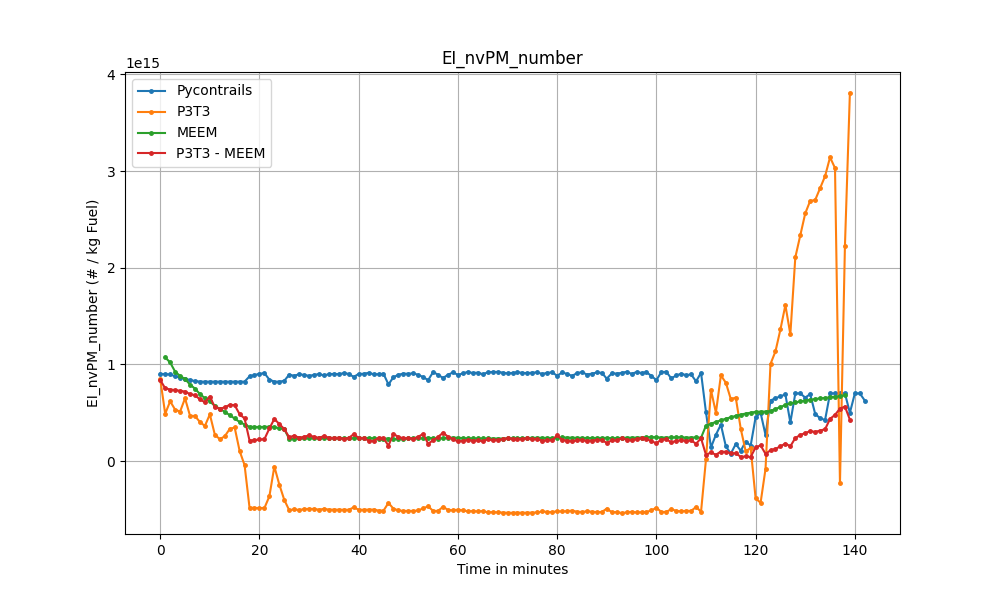
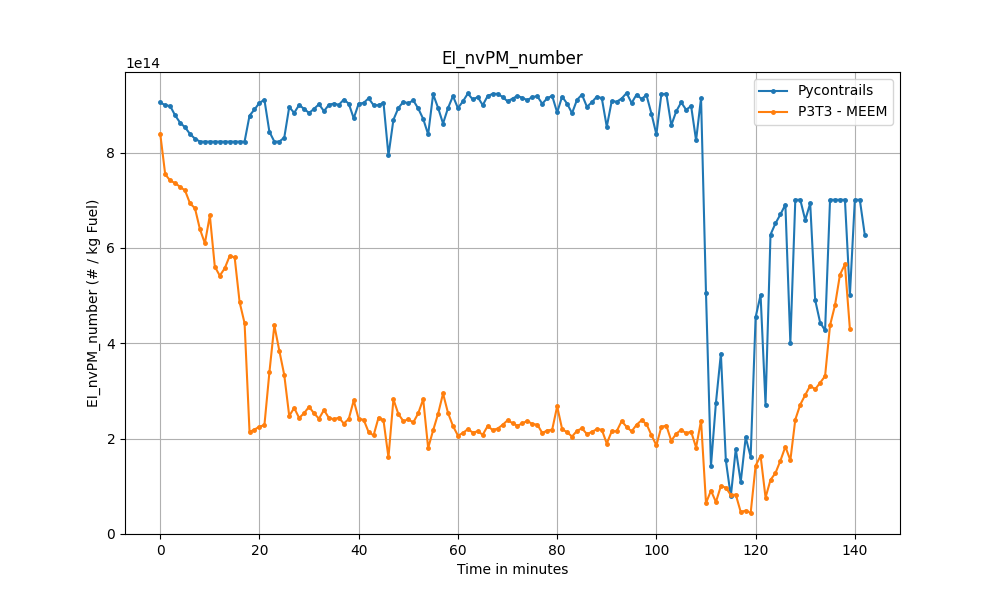
run PW1921 with p3t3 meem only

diff --git a/verification_emissions.py b/verification_emissions.py
@@ -566,8 +566,8 @@ print(df_gsp[['EI_nvpm_mass_p3t3', 'EI_nvpm_number_p3t3', 'EI_mass_meem', 'EI_nu
 # Plot B: EI_nvpm_mass
 plt.figure(figsize=(10, 6))
 plt.plot(df_gsp.index, df_gsp['EI_nvpm_mass_py'], label='Pycontrails', linestyle='-', marker='o', markersize=2.5)
-plt.plot(df_gsp.index, df_gsp['EI_nvpm_mass_p3t3'], label='P3T3', linestyle='-', marker='o', markersize=2.5)
-plt.plot(df_gsp.index, df_gsp['EI_mass_meem'], label='MEEM', linestyle='-', marker='o', markersize=2.5)
+# plt.plot(df_gsp.index, df_gsp['EI_nvpm_mass_p3t3'], label='P3T3', linestyle='-', marker='o', markersize=2.5)
+# plt.plot(df_gsp.index, df_gsp['EI_mass_meem'], label='MEEM', linestyle='-', marker='o', markersize=2.5)
 plt.plot(df_gsp.index, df_gsp['EI_nvpm_mass_p3t3_meem'], label='P3T3 - MEEM', linestyle='-', marker='o', markersize=2.5)
 plt.title('EI_nvPM_mass')
 plt.xlabel('Time in minutes')
@@ -579,8 +579,8 @@ plt.savefig(f'figures/{flight}/ei_nvpm_mass.png', format='png')
 # Plot B: EI_nvpm_mass
 plt.figure(figsize=(10, 6))
 plt.plot(df_gsp.index, df_gsp['EI_nvpm_mass_py'], label='Pycontrails', linestyle='-')
-plt.plot(df_gsp.index, df_gsp['EI_nvpm_mass_p3t3'], label='P3T3', linestyle='-')
-plt.plot(df_gsp.index, df_gsp['EI_mass_meem'], label='MEEM', linestyle='-')
+# plt.plot(df_gsp.index, df_gsp['EI_nvpm_mass_p3t3'], label='P3T3', linestyle='-')
+# plt.plot(df_gsp.index, df_gsp['EI_mass_meem'], label='MEEM', linestyle='-')
 plt.plot(df_gsp.index, df_gsp['EI_nvpm_mass_p3t3_meem'], label='P3T3 - MEEM', linestyle='-')
 plt.title('EI_nvPM_mass')
 plt.xlabel('Time in minutes')
@@ -592,8 +592,8 @@ plt.savefig(f'figures/{flight}/ei_nvpm_mass_no_markers.png', format='png')
 # Plot C: EI_nvpm_number
 plt.figure(figsize=(10, 6))
 plt.plot(df_gsp.index, df_gsp['EI_nvpm_number_py'], label='Pycontrails', linestyle='-', marker='o', markersize=2.5)
-plt.plot(df_gsp.index, df_gsp['EI_nvpm_number_p3t3'], label='P3T3', linestyle='-', marker='o', markersize=2.5)
-plt.plot(df_gsp.index, df_gsp['EI_number_meem'], label='MEEM', linestyle='-', marker='o', markersize=2.5)
+# plt.plot(df_gsp.index, df_gsp['EI_nvpm_number_p3t3'], label='P3T3', linestyle='-', marker='o', markersize=2.5)
+# plt.plot(df_gsp.index, df_gsp['EI_number_meem'], label='MEEM', linestyle='-', marker='o', markersize=2.5)
 plt.plot(df_gsp.index, df_gsp['EI_nvpm_number_p3t3_meem'], label='P3T3 - MEEM', linestyle='-', marker='o', markersize=2.5)
 plt.title('EI_nvPM_number')
 plt.xlabel('Time in minutes')
@@ -604,8 +604,8 @@ plt.savefig(f'figures/{flight}/ei_nvpm_number.png', format='png')
 
 plt.figure(figsize=(10, 6))
 plt.plot(df_gsp.index, df_gsp['EI_nvpm_number_py'], label='Pycontrails', linestyle='-')
-plt.plot(df_gsp.index, df_gsp['EI_nvpm_number_p3t3'], label='P3T3', linestyle='-')
-plt.plot(df_gsp.index, df_gsp['EI_number_meem'], label='MEEM', linestyle='-')
+# plt.plot(df_gsp.index, df_gsp['EI_nvpm_number_p3t3'], label='P3T3', linestyle='-')
+# plt.plot(df_gsp.index, df_gsp['EI_number_meem'], label='MEEM', linestyle='-')
 plt.plot(df_gsp.index, df_gsp['EI_nvpm_number_p3t3_meem'], label='P3T3 - MEEM', linestyle='-')
 plt.title('EI_nvPM_number')
 plt.xlabel('Time in minutes')
